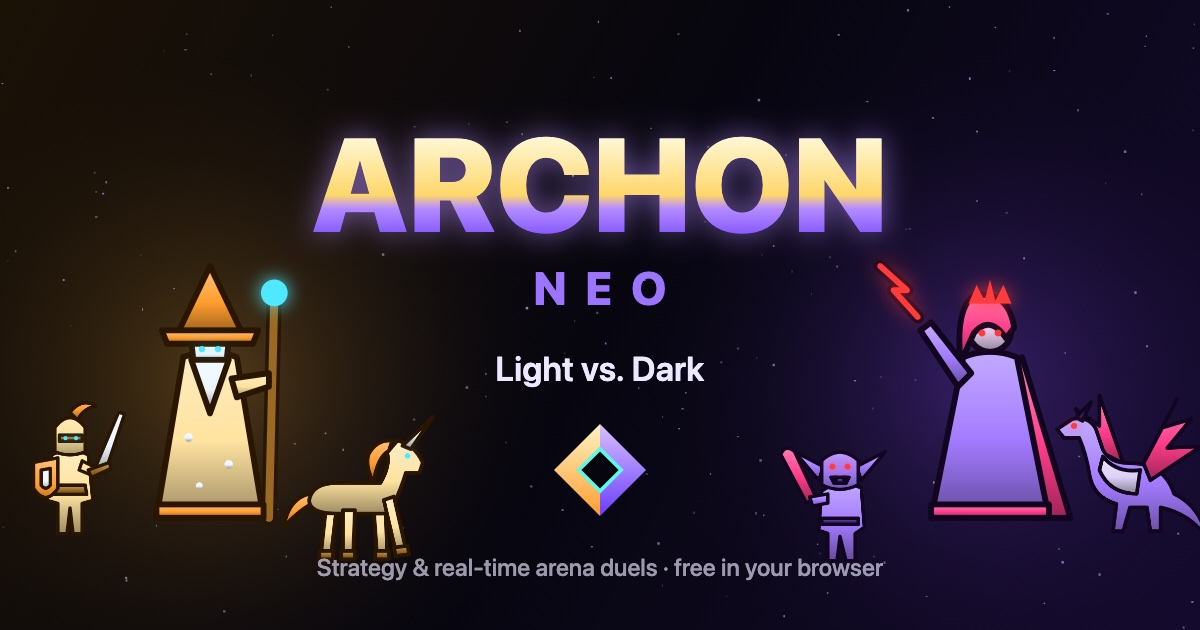
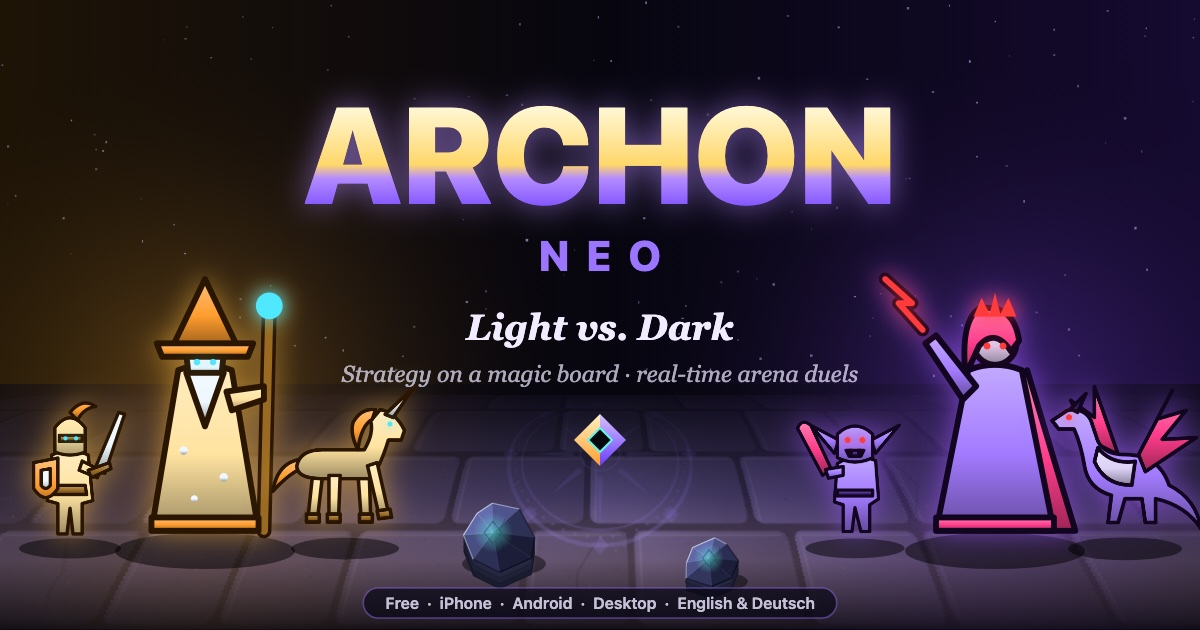
Refresh social preview: new share image and bilingual link texts
- Share image rendered from the 1.1 arena art: floor in perspective,
  rune pillars, serif tagline and a platform/language badge
- Bilingual og/twitter title and description, og:image:type and
  twitter:image:alt

diff --git a/tools/assets.html b/tools/assets.html
@@ -13,6 +13,7 @@
 <canvas id="c"></canvas>
 <script type="module">
 import { unitCanvas } from '../public/js/art.js';
+import { makeFloor, makeRock } from '../public/js/arena-art.js';
 
 const q = new URLSearchParams(location.search);
 const asset = q.get('asset') || 'og';
@@ -20,6 +21,7 @@ const size = Number(q.get('size') || 512);
 const cv = document.getElementById('c');
 const ctx = cv.getContext('2d');
 const FONT = 'system-ui, -apple-system, "Segoe UI", Roboto, "Helvetica Neue", Arial, sans-serif';
+const SERIF = 'ui-serif, "New York", Georgia, Cambria, "Noto Serif", "Times New Roman", serif';
 
 function unit(type, pal, cx, cy, s, flip = false) {
   const img = unitCanvas(type, pal, s * 2);
@@ -60,49 +62,102 @@ function icon(full) {
 }
 
 function og() {
-  const w = 1200, h = 630;
+  const w = 1200, h = 630, GROUND = 545;
   cv.width = w; cv.height = h;
-  const bg = ctx.createLinearGradient(0, 0, w, h);
-  bg.addColorStop(0, '#1b1206'); bg.addColorStop(0.5, '#07060f'); bg.addColorStop(1, '#140a2e');
+  const bg = ctx.createLinearGradient(0, 0, w, 0);
+  bg.addColorStop(0, '#1e1406'); bg.addColorStop(0.5, '#07060f'); bg.addColorStop(1, '#150a30');
   ctx.fillStyle = bg;
   ctx.fillRect(0, 0, w, h);
   let seed = 7;
   const rnd = () => (seed = (seed * 16807) % 2147483647) / 2147483647;
   ctx.fillStyle = '#c8c0ff';
-  for (let i = 0; i < 160; i++) { ctx.globalAlpha = 0.2 + rnd() * 0.5; ctx.fillRect(rnd() * w, rnd() * h, 1 + rnd() * 1.6, 1 + rnd() * 1.6); }
+  for (let i = 0; i < 170; i++) { ctx.globalAlpha = 0.15 + rnd() * 0.5; ctx.fillRect(rnd() * w, rnd() * GROUND * 0.9, 1 + rnd() * 1.6, 1 + rnd() * 1.6); }
   ctx.globalAlpha = 1;
-  for (const [x, col] of [[220, 'rgba(255,180,60,0.28)'], [980, 'rgba(140,80,255,0.32)']]) {
-    const g = ctx.createRadialGradient(x, 380, 0, x, 380, 360);
+
+  // the arena floor of 1.1, seen at a low angle, fading into the night
+  const floor = makeFloor(600, 120, 2, [96, 84, 140], 0.35, 'light', 3);
+  // simple perspective: strips get taller and wider towards the viewer
+  const top = GROUND - 150, depth = h - top, N = 90;
+  for (let i = 0; i < N; i++) {
+    const t0 = i / N, t1 = (i + 1) / N;
+    const y0 = top + depth * t0 * t0, y1 = top + depth * t1 * t1;
+    const sw = w * (0.9 + 0.7 * t0);
+    ctx.drawImage(floor, 0, floor.height * t0, floor.width, floor.height / N + 1, (w - sw) / 2, y0, sw, y1 - y0 + 1);
+  }
+  let fade = ctx.createLinearGradient(0, GROUND - 160, 0, GROUND - 20);
+  fade.addColorStop(0, 'rgba(7,6,15,1)'); fade.addColorStop(1, 'rgba(7,6,15,0)');
+  ctx.fillStyle = fade; ctx.fillRect(0, GROUND - 161, w, 142);
+  fade = ctx.createLinearGradient(0, h - 70, 0, h);
+  fade.addColorStop(0, 'rgba(7,6,15,0)'); fade.addColorStop(1, 'rgba(7,6,15,0.85)');
+  ctx.fillStyle = fade; ctx.fillRect(0, h - 70, w, 70);
+
+  // warm and cold light of the two armies
+  for (const [x, col] of [[200, 'rgba(255,175,55,0.32)'], [1000, 'rgba(140,80,255,0.36)']]) {
+    const g = ctx.createRadialGradient(x, 400, 0, x, 400, 380);
     g.addColorStop(0, col); g.addColorStop(1, 'rgba(0,0,0,0)');
     ctx.fillStyle = g; ctx.fillRect(0, 0, w, h);
   }
-  // armies
-  unit('wizard', 'light', 210, 400, 300);
-  unit('knight', 'light', 70, 470, 170);
-  unit('unicorn', 'light', 360, 500, 190);
-  unit('sorceress', 'dark', 990, 400, 300, true);
-  unit('dragon', 'dark', 1130, 470, 190, true);
-  unit('goblin', 'dark', 840, 500, 170, true);
+
+  // stone pillars between the armies
+  const rock = (x, y, r, s) => {
+    const k = makeRock(r, 2, s);
+    ctx.fillStyle = 'rgba(0,0,0,0.45)';
+    ctx.beginPath(); ctx.ellipse(x + r * 0.15, y + r * 0.62, r * 1.05, r * 0.32, 0, 0, Math.PI * 2); ctx.fill();
+    ctx.drawImage(k.cv, x - k.size / 2, y - k.size / 2, k.size, k.size);
+    const rg = ctx.createRadialGradient(x + k.ax, y + k.ay, 0, x + k.ax, y + k.ay, r * 0.5);
+    rg.addColorStop(0, 'rgba(95,247,230,0.55)'); rg.addColorStop(1, 'rgba(95,247,230,0)');
+    ctx.fillStyle = rg; ctx.fillRect(x - r, y - r, r * 2, r * 2);
+  };
+  rock(498, GROUND - 6, 40, 4);
+  rock(712, GROUND + 18, 30, 9);
+
+  // armies standing on the floor
+  const fig = (type, pal, x, s, flip) => {
+    ctx.fillStyle = 'rgba(0,0,0,0.5)';
+    ctx.beginPath(); ctx.ellipse(x, GROUND + s * 0.02, s * 0.3, s * 0.06, 0, 0, Math.PI * 2); ctx.fill();
+    ctx.save();
+    ctx.shadowColor = pal === 'light' ? 'rgba(255,190,70,0.55)' : 'rgba(160,90,255,0.6)';
+    ctx.shadowBlur = 28;
+    unit(type, pal, x, GROUND - s * 0.44, s, flip);
+    ctx.restore();
+  };
+  fig('wizard', 'light', 205, 300);
+  fig('knight', 'light', 70, 170);
+  fig('unicorn', 'light', 345, 180);
+  fig('sorceress', 'dark', 995, 300, true);
+  fig('dragon', 'dark', 1125, 190, true);
+  fig('goblin', 'dark', 855, 165, true);
+
   // title
   ctx.textAlign = 'center';
   ctx.textBaseline = 'middle';
-  const tg = ctx.createLinearGradient(0, 140, 0, 250);
+  const tg = ctx.createLinearGradient(0, 110, 0, 220);
   tg.addColorStop(0, '#fff6d0'); tg.addColorStop(0.5, '#ffd76a'); tg.addColorStop(0.62, '#b48cff'); tg.addColorStop(1, '#6b3cff');
-  ctx.shadowColor = 'rgba(180,140,255,0.6)'; ctx.shadowBlur = 30;
+  ctx.shadowColor = 'rgba(180,140,255,0.6)'; ctx.shadowBlur = 32;
   ctx.fillStyle = tg;
-  ctx.font = `900 132px ${FONT}`;
-  ctx.fillText('ARCHON', w / 2, 190);
+  ctx.font = `900 136px ${FONT}`;
+  ctx.fillText('ARCHON', w / 2, 160);
   ctx.shadowBlur = 0;
   ctx.fillStyle = '#9b74ff';
-  ctx.font = `800 46px ${FONT}`;
-  ctx.fillText('N  E  O', w / 2, 290);
-  ctx.fillStyle = '#ece8ff';
-  ctx.font = `600 34px ${FONT}`;
-  ctx.fillText('Light vs. Dark', w / 2, 370);
-  emblem(w / 2, 470, 46);
-  ctx.fillStyle = 'rgba(236,232,255,0.65)';
-  ctx.font = `500 24px ${FONT}`;
-  ctx.fillText('Strategy & real-time arena duels · free in your browser', w / 2, 568);
+  ctx.font = `800 42px ${FONT}`;
+  ctx.fillText('N  E  O', w / 2, 258);
+  ctx.fillStyle = '#f1ecff';
+  ctx.font = `italic 600 36px ${SERIF}`;
+  ctx.fillText('Light vs. Dark', w / 2, 330);
+  ctx.fillStyle = 'rgba(236,232,255,0.72)';
+  ctx.font = `italic 400 23px ${SERIF}`;
+  ctx.fillText('Strategy on a magic board · real-time arena duels', w / 2, 376);
+  emblem(w / 2, 440, 26);
+  // footer badge
+  ctx.font = `600 16px ${FONT}`;
+  const tag = 'Free  ·  iPhone  ·  Android  ·  Desktop  ·  English & Deutsch';
+  const tw = ctx.measureText(tag).width + 44;
+  ctx.fillStyle = 'rgba(10,8,22,0.72)';
+  ctx.strokeStyle = 'rgba(155,116,255,0.45)';
+  ctx.lineWidth = 1.5;
+  ctx.beginPath(); ctx.roundRect(w / 2 - tw / 2, 588, tw, 30, 15); ctx.fill(); ctx.stroke();
+  ctx.fillStyle = 'rgba(236,232,255,0.82)';
+  ctx.fillText(tag, w / 2, 604);
 }
 
 if (asset === 'og') og();

diff --git a/public/index.html b/public/index.html
@@ -21,19 +21,21 @@
   <!-- Open Graph / social previews -->
   <meta property="og:type" content="website">
   <meta property="og:site_name" content="Archon NEO">
-  <meta property="og:title" content="Archon NEO – Light vs. Dark">
-  <meta property="og:description" content="A modern fan tribute to the 1983 classic: strategy on a magic board plus real-time arena duels. Free, offline-ready, English &amp; German.">
+  <meta property="og:title" content="Archon NEO – Light vs. Dark · Licht gegen Dunkel">
+  <meta property="og:description" content="Strategy on a magic board meets real-time arena duels – a loving tribute to the 1983 classic. Free in your browser. · Strategie trifft Echtzeit-Duelle – kostenlos im Browser, auf Deutsch.">
   <meta property="og:url" content="__SITE_URL__/">
   <meta property="og:image" content="__SITE_URL__/og-image.jpg">
+  <meta property="og:image:type" content="image/jpeg">
   <meta property="og:image:width" content="1200">
   <meta property="og:image:height" content="630">
-  <meta property="og:image:alt" content="Archon NEO – the armies of Light and Darkness facing each other">
+  <meta property="og:image:alt" content="Archon NEO – the armies of Light and Darkness face each other across the arena">
   <meta property="og:locale" content="en_US">
   <meta property="og:locale:alternate" content="de_DE">
   <meta name="twitter:card" content="summary_large_image">
-  <meta name="twitter:title" content="Archon NEO – Light vs. Dark">
-  <meta name="twitter:description" content="Strategy meets real-time arena duels. A free fan tribute to the 1983 classic.">
+  <meta name="twitter:title" content="Archon NEO – Light vs. Dark · Licht gegen Dunkel">
+  <meta name="twitter:description" content="Strategy meets real-time arena duels – a free tribute to the 1983 classic. Strategie trifft Echtzeit-Duelle, kostenlos im Browser.">
   <meta name="twitter:image" content="__SITE_URL__/og-image.jpg">
+  <meta name="twitter:image:alt" content="Archon NEO – the armies of Light and Darkness face each other across the arena">
 
   <link rel="icon" href="icons/favicon.svg" type="image/svg+xml">
   <link rel="icon" href="icons/favicon-32.png" sizes="32x32" type="image/png">

diff --git a/CHANGELOG.md b/CHANGELOG.md
@@ -5,6 +5,10 @@ The format follows [Keep a Changelog](https://keepachangelog.com/en/1.1.0/) and 
 
 ## [Unreleased]
 
+### Changed
+- New social preview image in the look of 1.1: the armies stand on the arena floor between rune pillars, with a clear platform and language badge.
+- Link previews in messengers and social media now carry an English and German title and description, plus `og:image:type` and `twitter:image:alt`.
+
 ### Planned
 - Live online battles between two devices
 - Hall of Fame and leaderboard
